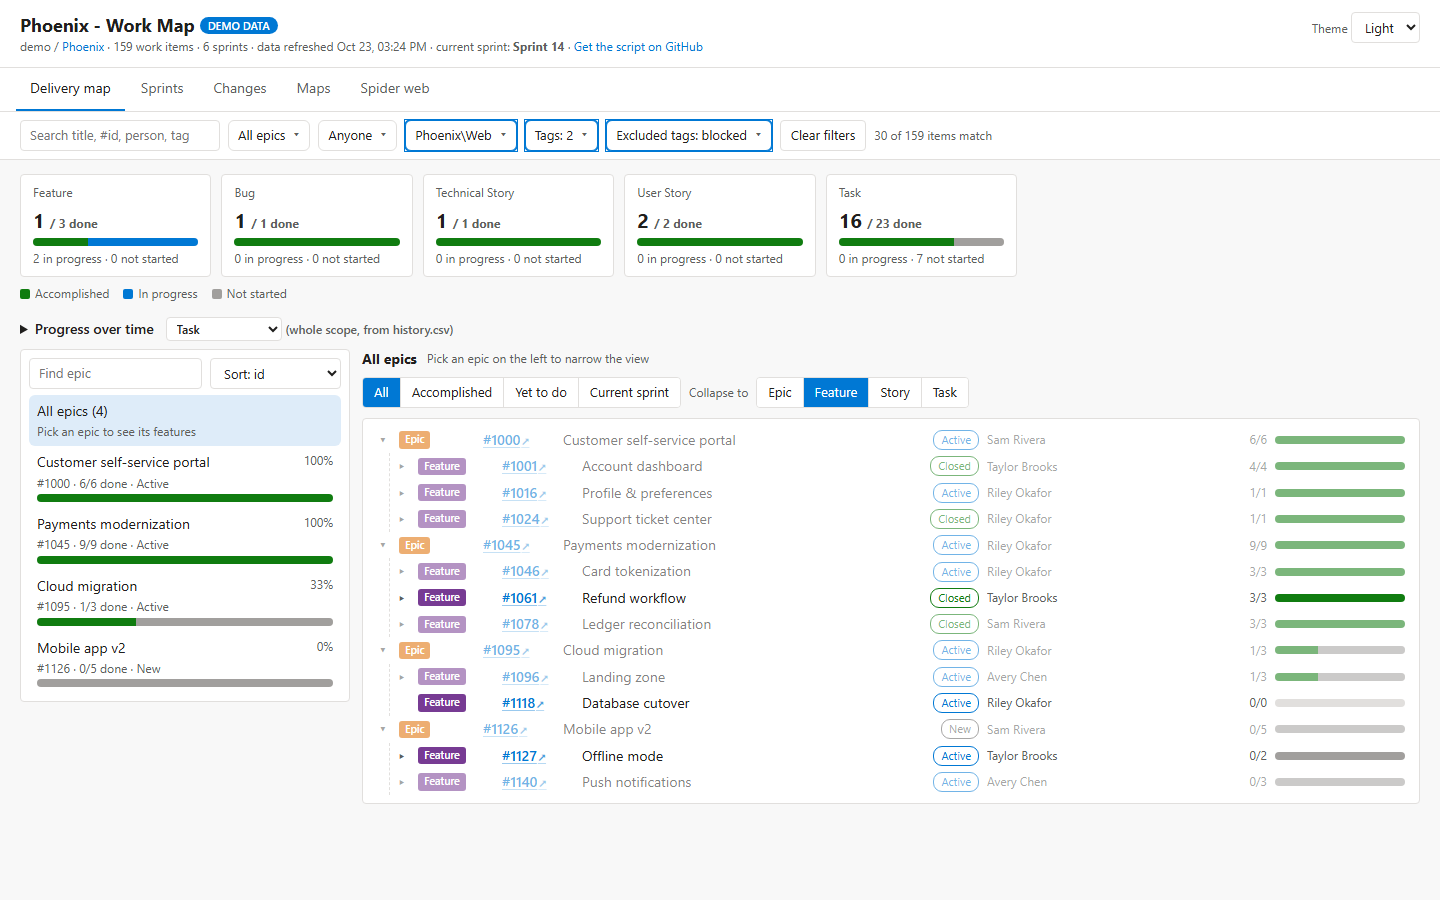
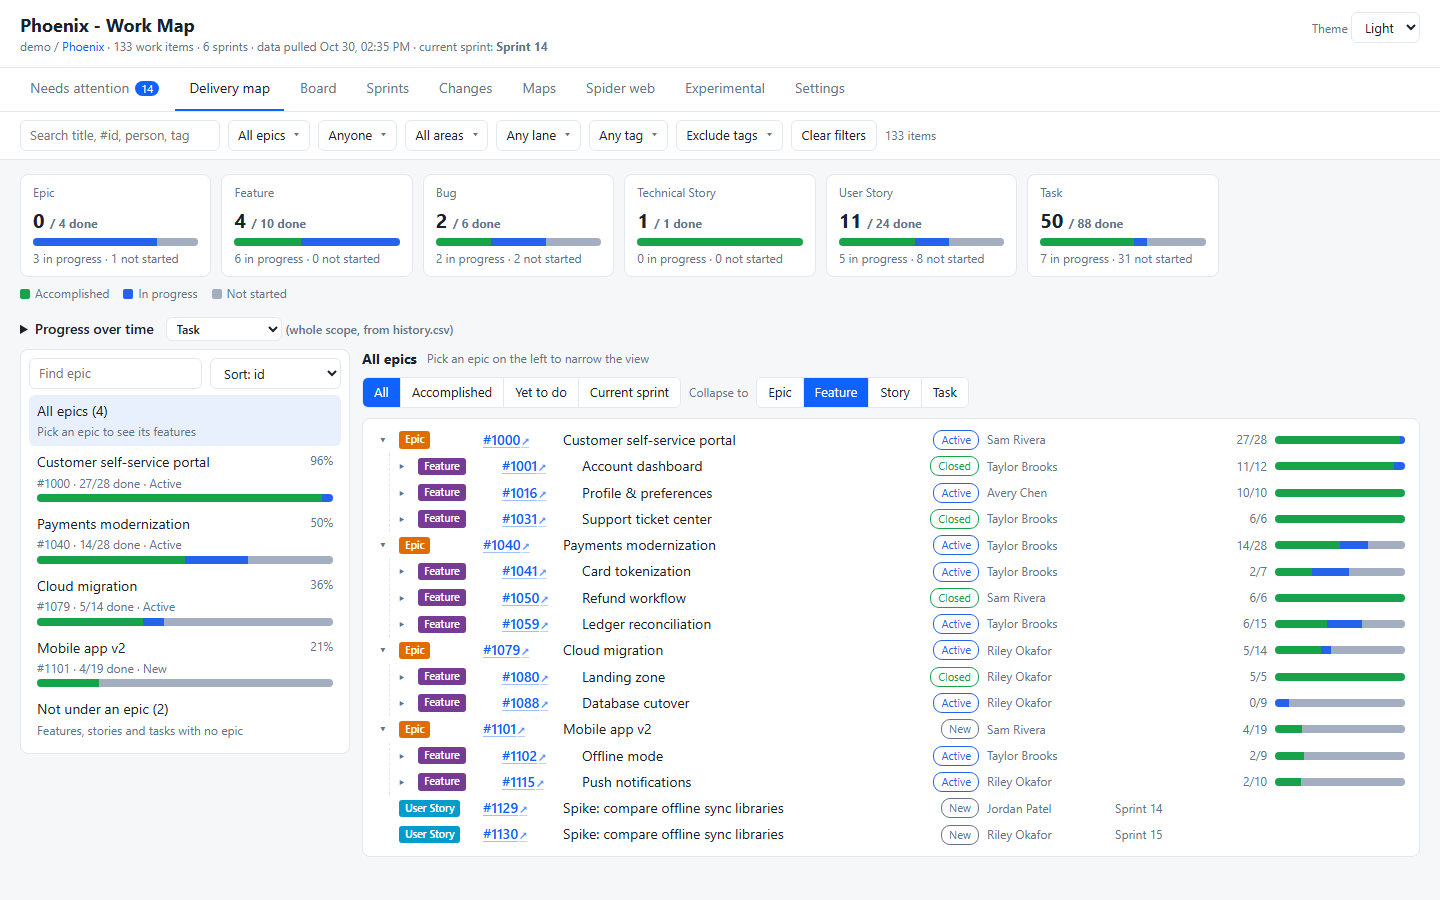
Refresh README: visual tour and screenshots of the 1.7.0 views
- New header with a tour of the main views
- Screenshots retaken from the 1.7.0 demo (light theme, demo data)
- New Board, Settings and Experimental screenshots

diff --git a/README.md b/README.md
@@ -2,26 +2,43 @@
 
 # ADO Work Map
 
-**One PowerShell script. One HTML report. Your whole Azure DevOps project at a glance.**
+**See your whole Azure DevOps project at a glance, in one HTML file.**
 
-Epics, features, stories and tasks, every sprint, what changed, and how the work connects to your code,
-in an interactive page you can open in any browser.
+Epics, features, stories and tasks, every sprint, the board, what changed, and how the work connects to your code.
+An interactive report you open in any browser, from a PowerShell script, VS Code, or inside Azure DevOps itself.
 
 [![PowerShell 5.1](https://img.shields.io/badge/PowerShell-5.1-5391FE?logo=powershell&logoColor=white)](#requirements)
 [![Windows](https://img.shields.io/badge/Windows-10%20%7C%2011-0078D4?logo=windows&logoColor=white)](#requirements)
 [![No dependencies](https://img.shields.io/badge/modules-none-success)](#requirements)
-[![Azure DevOps](https://img.shields.io/badge/Azure%20DevOps-Services%20%26%20Server-0078D7?logo=azuredevops&logoColor=white)](#azure-devops-server-on-premises)
+[![Azure DevOps](https://img.shields.io/badge/Azure%20DevOps-Services%20%26%20Server-0078D7?logo=azuredevops&logoColor=white)](#azure-devops-extension)
 [![License: MIT](https://img.shields.io/badge/license-MIT-yellow.svg)](LICENSE)
 [![Latest release](https://img.shields.io/github/v/release/DasCondor/ado-work-map?label=release)](https://github.com/DasCondor/ado-work-map/releases/latest)
 [![VS Code Marketplace](https://img.shields.io/badge/VS%20Code-Marketplace-007ACC?logo=visualstudiocode&logoColor=white)](https://marketplace.visualstudio.com/items?itemName=DasCondor.ado-work-map)
 
-### [&#9654; Try the live demo](https://dascondor.github.io/ado-work-map/) &nbsp;&middot;&nbsp; [Sprint planning demo](https://dascondor.github.io/ado-work-map/sprint-planning.html) &nbsp;&middot;&nbsp; [Get the VS Code extension](https://marketplace.visualstudio.com/items?itemName=DasCondor.ado-work-map)
+### [&#9654; Try the live demo](https://dascondor.github.io/ado-work-map/) &nbsp;&middot;&nbsp; [Sprint planning demo](https://dascondor.github.io/ado-work-map/sprint-planning.html) &nbsp;&middot;&nbsp; [Install the VS Code extension](https://marketplace.visualstudio.com/items?itemName=DasCondor.ado-work-map)
 
 <img src="docs/images/delivery-map.png" alt="Delivery map: epics on the left, the selected epic's features and stories with progress bars on the right" width="900">
 
-<sub>The live demo and all screenshots use the built-in demo data (<code>-Demo</code>), not a real project.</sub>
+<sub>Screenshots use the built-in demo data (<code>-Demo</code>), not a real project.</sub>
 
 </div>
+
+## A tour
+
+<table>
+<tr>
+<td width="50%"><img src="docs/images/needs-attention.png" alt="Needs attention: checks for unassigned, blocked and stranded work, each finding with its evidence and a link" width="100%"><br><b>Needs attention</b> &mdash; what to look at first, with the evidence and a link for each item.</td>
+<td width="50%"><img src="docs/images/board.png" alt="Board: open work by swim lane and board column, with a Next up panel" width="100%"><br><b>Board</b> &mdash; swim lanes and board columns, with what's next in the BA Review lane.</td>
+</tr>
+<tr>
+<td width="50%"><img src="docs/images/sprints.png" alt="Sprint detail: sprint timeline, KPIs, work by person and a tree of the sprint's work" width="100%"><br><b>Sprints</b> &mdash; each sprint's numbers, work by person, and a tree of its work.</td>
+<td width="50%"><img src="docs/images/spider-web.png" alt="Spider web of work items, pull requests, branches, commits and repositories" width="100%"><br><b>Spider web</b> &mdash; work items connected to their PRs, commits, branches and repos.</td>
+</tr>
+<tr>
+<td width="50%"><img src="docs/images/treemap.png" alt="Treemap: epic tiles containing feature tiles, coloured by percent done" width="100%"><br><b>Maps</b> &mdash; a treemap, a repo matrix and a commit heatmap.</td>
+<td width="50%"><img src="docs/images/settings.png" alt="Settings: planning data the maps use, status flows, board lanes and UAT settings" width="100%"><br><b>Settings</b> &mdash; your status flows, lanes and dates, so the checks know how your team works.</td>
+</tr>
+</table>
 
 ---
 
@@ -29,7 +46,7 @@ in an interactive page you can open in any browser.
 
 | | PowerShell script + HTML report | VS Code extension | Azure DevOps extension |
 |---|---|---|---|
-| Work Map report: Needs attention, delivery map, sprints, changes, maps, spider web | Supported | Supported | Supported |
+| Work Map report: Needs attention, delivery map, board, sprints, changes, maps, spider web, settings, experimental maps | Supported | Supported | Supported |
 | Access | Read-only (PAT or `az login`) | Read-only (PAT in VS Code secret storage) | Your own sign-in; writes only from Sprint planning's **Save plan** |
 | Connection check | `-Check` | **Check Connection** command | Not needed (uses your sign-in) |
 | Sprint planning | &mdash; | &mdash; | Preview: **Save plan** is off until you turn it on (not yet validated against a live organization); votes are entered on one shared screen |
@@ -124,13 +141,24 @@ The connections: work items, their parent/child, related and dependency links, a
 
 Open work laid out by swim lane (a row on the Azure DevOps board) and board column, in the order of your status flows. A **Next up** panel lists what comes next in the BA Review lane. Choose which lanes show, and their order, under Settings.
 
+<img src="docs/images/board.png" alt="Board: open work by swim lane and board column, with a Next up panel for the BA Review lane" width="900">
+
 ### Settings
 
 Set your **status flows** (the steps stories go through, by area path, iteration or swim lane), which planning data the report uses (**swim lane**, **Start Date**, **End Date**), and the UAT lane. Needs attention then finds stuck work, skipped steps, work past its end date and UAT-lane stories without a UAT task. Click **Export** and put `ado_work_map.settings.json` next to the script so every report uses them (VS Code saves them for you).
 
+<img src="docs/images/settings.png" alt="Settings: planning data the maps use, status flows, board lanes and UAT settings" width="900">
+
 ### Experimental
 
 Eight new maps to try, each with a short **How to read this map** box: **feature readiness** (is each open feature ready to plan?), **people load** (remaining hours per person per sprint), **dependencies** (are predecessors planned first?), **work aging** (what's been in progress longest), **forecast** (likely finish dates from the team's real pace), **sprint flow** (added, finished, carried over), **PR flow** (time to merge and waiting PRs per repo) and **cross-team** (which area paths wait on which). They may change; if one can't be drawn, the rest of the report still works.
+
+<table>
+<tr>
+<td width="50%"><img src="docs/images/experimental-forecast.png" alt="Forecast: how likely each finish week is, with 50, 85 and 95 percent dates"><br><b>Forecast</b> &mdash; likely finish dates, from the team's real pace over the last 12 weeks.</td>
+<td width="50%"><img src="docs/images/experimental-dependencies.png" alt="Dependencies: predecessor links laid over the sprints, out of order in red"><br><b>Dependencies</b> &mdash; predecessors planned after the work that waits on them, in red.</td>
+</tr>
+</table>
 
 ## Quick start
 
